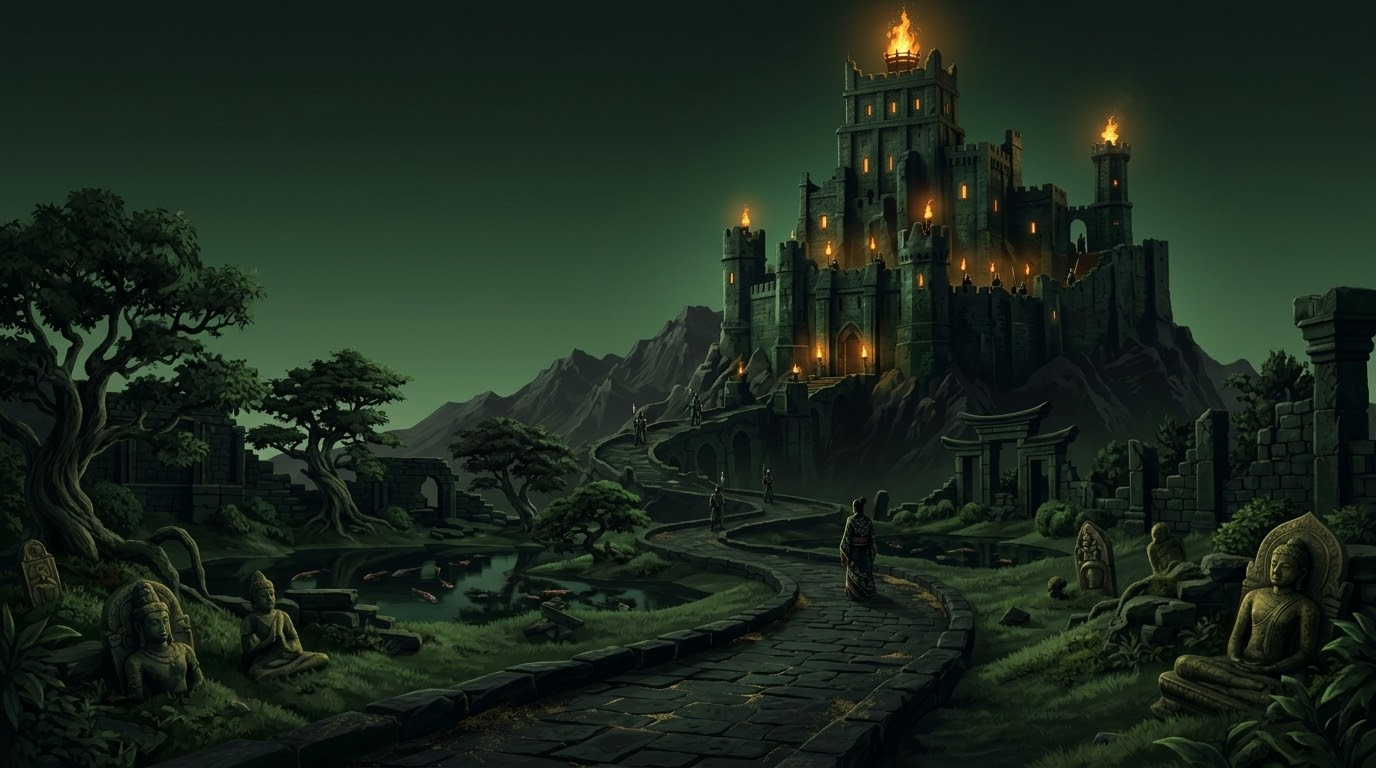
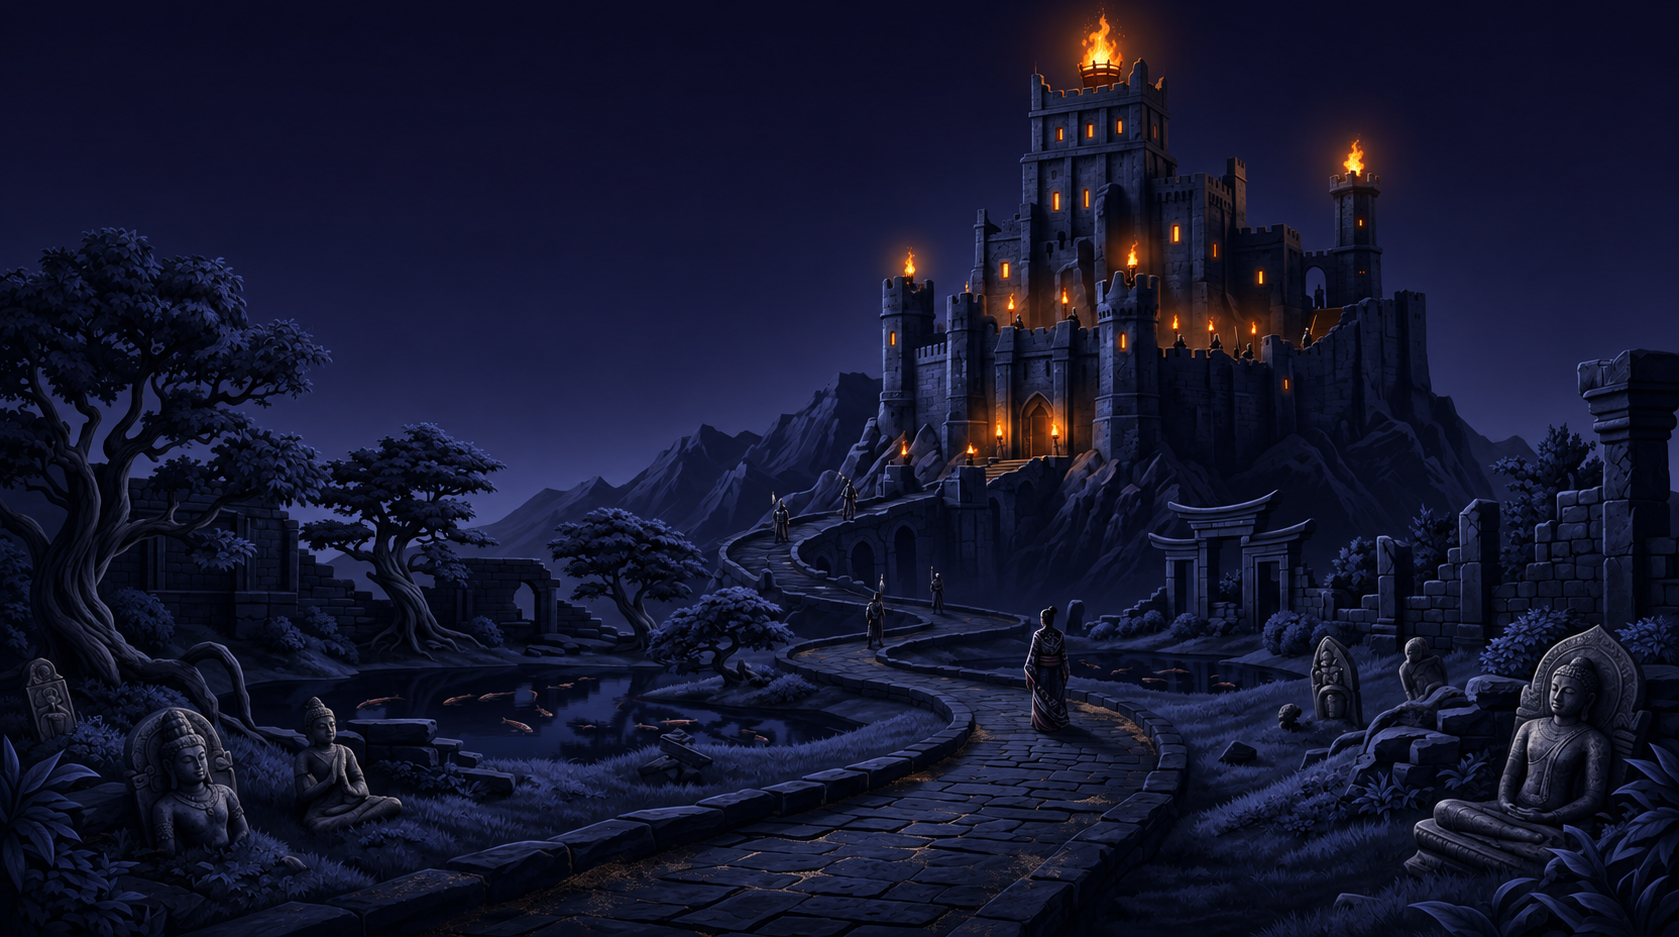
updated theme and adjust screenshot size, and adjusted mobile menu.

diff --git a/css/style.css b/css/style.css
@@ -1,12 +1,12 @@
 @import url('https://fonts.googleapis.com/css2?family=Libre+Caslon+Display&display=swap');
 
 :root {
-    --background: #101813;
-    --surface: #19251D;
+    --background: #101020;
+    --surface: #1A1A3A;
     --text: #F5EEDD;
-    --muted: #BBC1BE;
+    --muted: #C4C3D3;
     --gold: #E3C888;
-    --border: #515957;
+    --border: #484860;
     --heading-font: 'Libre Caslon Display', Georgia, serif;
 }
 
@@ -92,7 +92,7 @@ a:focus-visible, button:focus-visible {
     position: sticky;
     top: 0;
     z-index: 100;
-    background-color: rgba(16, 24, 19, 0.96);
+    background-color: rgba(16, 16, 32, 0.96);
     border-bottom: 1px solid rgba(227, 200, 136, 0.18);
     transition:
         background-color 0.3s ease,
@@ -109,13 +109,13 @@ a:focus-visible, button:focus-visible {
 
 @supports ((backdrop-filter: blur(20px)) or (-webkit-backdrop-filter: blur(20px))) {
     .site-header {
-        background-color: rgba(16, 24, 19, 0.55);
+        background-color: rgba(16, 16, 32, 0.55);
         -webkit-backdrop-filter: blur(20px) saturate(150%);
         backdrop-filter: blur(20px) saturate(150%);
     }
 
     .site-header.is-scrolled {
-        background-color: rgba(16, 24, 19, 0.68);
+        background-color: rgba(16, 16, 32, 0.68);
     }
 }
 
@@ -200,8 +200,8 @@ a:focus-visible, button:focus-visible {
     background-image:
         linear-gradient(
             to right,
-            rgba(10, 18, 14, 0.85),
-            rgba(10, 18, 14, 0.45)
+            rgba(10, 10, 26, 0.85),
+            rgba(10, 10, 26, 0.45)
         ),
         url("../images/home-background.jpg");
     background-size: cover;
@@ -284,7 +284,7 @@ a:focus-visible, button:focus-visible {
 }
 
 .button-secondary {
-    background-color: rgba(16, 24, 19, 0.35);
+    background-color: rgba(16, 16, 32, 0.35);
     border-color: rgba(227, 200, 136, 0.5);
     color: var(--text);
     -webkit-backdrop-filter: blur(8px);
@@ -347,6 +347,7 @@ a:focus-visible, button:focus-visible {
     text-decoration: underline;
     text-underline-offset: 5px;
     font-size: 14px;
+    transition: color 0.2s ease;
 }
 
 .text-link:hover {
@@ -375,7 +376,7 @@ a:focus-visible, button:focus-visible {
     padding: 28px;
     border: 1px solid var(--border);
     border-radius: 14px;
-    background-color: rgba(16, 24, 19, 0.35);
+    background-color: rgba(16, 16, 32, 0.35);
 }
 
 .stat-number {
@@ -459,8 +460,8 @@ a:focus-visible, button:focus-visible {
 .grades-section {
     background-image:
         linear-gradient(
-            rgba(16, 24, 19, 0.88),
-            rgba(16, 24, 19, 0.92)
+            rgba(16, 16, 32, 0.88),
+            rgba(16, 16, 32, 0.92)
         ),
         url("../images/home-background.jpg");
     background-size: cover;
@@ -693,7 +694,7 @@ a:focus-visible, button:focus-visible {
     text-decoration: none;
     display: flex;
     flex-direction: column;
-    background-color: rgba(16, 24, 19, 0.25);
+    background-color: rgba(16, 16, 32, 0.25);
     transition:
         transform 0.25s ease,
         border-color 0.25s ease,
@@ -986,8 +987,8 @@ a:focus-visible, button:focus-visible {
         background-position: 65% center;
         background-image:
             linear-gradient(
-                rgba(10, 18, 14, 0.65),
-                rgba(10, 18, 14, 0.85)
+                rgba(10, 10, 26, 0.65),
+                rgba(10, 10, 26, 0.85)
             ),
             url("../images/home-background.jpg");
     }
@@ -1138,9 +1139,14 @@ a:focus-visible, button:focus-visible {
     }
 }
 
+body {
+    background-image: linear-gradient(135deg, #101020, #1A1A3A);
+}
+
 .feature-languages {
-    background-color: var(--surface);
+    background: linear-gradient(135deg, #19192F, #222247);
     border-top: 1px solid var(--border);
+    border-bottom: 1px solid var(--border);
 }
 
 .feature-language-grid {
@@ -1156,7 +1162,7 @@ a:focus-visible, button:focus-visible {
     text-align: center;
     border: 1px solid rgba(227, 200, 136, 0.35);
     border-radius: 14px;
-    background-color: rgba(16, 24, 19, 0.35);
+    background-color: rgba(16, 16, 32, 0.45);
 }
 
 .feature-language-letter {
@@ -1166,19 +1172,24 @@ a:focus-visible, button:focus-visible {
     width: 76px;
     height: 76px;
     margin: 0 auto 24px;
-    border: 1px solid rgba(227, 200, 136, 0.45);
+    border: 1px solid rgba(227, 200, 136, 0.5);
     border-radius: 50%;
     background-color: rgba(227, 200, 136, 0.08);
     color: var(--gold);
     font-family: var(--heading-font);
-    font-size: 36px;
+    font-size: 38px;
     line-height: 1;
+    transition: box-shadow 0.25s ease;
+}
+
+.feature-language-card:hover .feature-language-letter {
+    box-shadow: 0 0 18px rgba(227, 200, 136, 0.25);
 }
 
 .feature-language-card h3 {
-    font-size: 28px;
+    font-size: 32px;
     line-height: 1.5;
-    margin-bottom: 8px;
+    margin-bottom: 10px;
 }
 
 .feature-language-card p {
@@ -1188,13 +1199,92 @@ a:focus-visible, button:focus-visible {
 
 .feature-language-note {
     margin-top: 28px;
-    text-align: center;
     color: var(--muted);
     font-size: 14px;
+    text-align: center;
+}
+
+.features-page .features-preview {
+    background: linear-gradient(135deg, #17172D, #1A1A3A);
+}
+
+.features-page .features-grid .explore-card {
+    background-color: rgba(26, 26, 58, 0.6);
+}
+
+.features-page .features-grid h3 {
+    font-size: 30px;
+    line-height: 1.2;
+}
+
+.features-page .feature-img {
+    aspect-ratio: auto;
+}
+
+.features-page .feature-img img {
+    height: auto;
+    object-fit: contain;
+}
+
+.features-page .feature:hover .feature-img img {
+    transform: none;
+}
+
+.features-page .step-number {
+    background-color: #17172E;
+}
+
+.features-page .waitlist-section {
+    background:
+        radial-gradient(
+            circle at center,
+            rgba(112, 99, 185, 0.2),
+            transparent 70%
+        ),
+        #101020;
+}
+
+@media (hover: hover) {
+    .features-page .features-grid .explore-card:hover {
+        background-color: #222244;
+    }
+
+    .features-page .features-grid .reveal.is-visible:hover {
+        transform: translateY(-6px);
+    }
 }
 
 @media (max-width: 700px) {
     .feature-language-grid {
         grid-template-columns: 1fr;
+    }
+
+    .feature-language-card {
+        padding: 28px 24px;
+    }
+
+    .features-page .steps-list::before {
+        display: none;
+    }
+
+    .features-page .step-item:not(:last-child)::after {
+        content: "";
+        position: absolute;
+        top: 52px;
+        bottom: -36px;
+        left: 26px;
+        width: 1px;
+        background-color: rgba(227, 200, 136, 0.45);
+    }
+}
+
+@media (prefers-reduced-motion: reduce) {
+    .can-reveal .reveal {
+        opacity: 1;
+        transform: none;
+    }
+
+    .features-page .features-grid .reveal.is-visible:hover {
+        transform: none;
     }
 }

diff --git a/features.html b/features.html
@@ -6,11 +6,11 @@
     <meta name="description" content="See what you can do in Dust &amp; Dynasties, a Sri Lankan history game for Grade 7 to 9 students.">
     <title>Features | Dust &amp; Dynasties</title>
     <link rel="icon" type="image/png" href="images/logo.png">
-    <meta name="theme-color" content="#101813">
-    <link rel="stylesheet" href="css/style.css?v=18">
+    <meta name="theme-color" content="#101020">
+    <link rel="stylesheet" href="css/style.css?v=19">
     <script src="js/script.js?v=17" defer></script>
 </head>
-<body>
+<body class="features-page">
     <a class="skip-link" href="#main-content">Skip to content</a>
 
     <header class="site-header">
@@ -37,7 +37,6 @@
             <div class="container">
                 <div class="intro-copy">
                     <p class="eyebrow">Inside the game</p>
-
                     <h1>Features</h1>
 
                     <p class="intro-text">Quizzes, puzzles, badges and more. Here is what you can do in the game.</p>
@@ -77,7 +76,7 @@
                     </div>
 
                     <div class="explore-card reveal">
-                        <span class="feature-icon" aria-hidden="true">&#3461;</span>
+                        <span class="feature-icon" aria-hidden="true" lang="si">&#3461;</span>
                         <h3>Three languages</h3>
                         <p>Play the whole game in Sinhala, Tamil or English, and switch at any time from the menu.</p>
                     </div>
@@ -108,7 +107,7 @@
                 <div class="feature-list">
                     <article class="feature reveal">
                         <div class="feature-img">
-                            <img src="images/screen-signup.png" alt="Sign up screen where new players choose a dynast name and password">
+                            <img src="images/screen-signup.png" alt="Sign up screen where new players choose a dynast name and password" loading="lazy">
                         </div>
 
                         <div class="feature-copy">
@@ -120,7 +119,7 @@
 
                     <article class="feature reveal">
                         <div class="feature-img">
-                            <img src="images/screen-login.png" alt="Log in screen for returning players">
+                            <img src="images/screen-login.png" alt="Log in screen for returning players" loading="lazy">
                         </div>
 
                         <div class="feature-copy">
@@ -143,25 +142,25 @@
 
                 <div class="feature-language-grid">
                     <article class="feature-language-card reveal">
-                        <span class="feature-language-letter" aria-hidden="true" lang="si">අ</span>
+                        <span class="feature-language-letter" lang="si" aria-hidden="true">අ</span>
                         <h3 lang="si">සිංහල</h3>
                         <p>Play in Sinhala.</p>
                     </article>
 
                     <article class="feature-language-card reveal">
-                        <span class="feature-language-letter" aria-hidden="true" lang="ta">அ</span>
+                        <span class="feature-language-letter" lang="ta" aria-hidden="true">அ</span>
                         <h3 lang="ta">தமிழ்</h3>
                         <p>Play in Tamil.</p>
                     </article>
 
                     <article class="feature-language-card reveal">
-                        <span class="feature-language-letter" aria-hidden="true" lang="en">A</span>
+                        <span class="feature-language-letter" lang="en" aria-hidden="true">A</span>
                         <h3 lang="en">English</h3>
                         <p>Play in English.</p>
                     </article>
                 </div>
 
-                <p class="feature-language-note reveal">All three languages are available in the game.</p>
+                <p class="feature-language-note">All three languages are available in the game.</p>
             </div>
         </section>
 
@@ -207,7 +206,6 @@
                     <p class="eyebrow">Currently in development</p>
                     <h2>Want to try <span>the game?</span></h2>
                     <p class="waitlist-text">We are still building the first chapter. Join the waitlist and we will email you when it is ready to play.</p>
-
                     <a class="button button-primary button-glow" href="index.html#waitlist">Join the waitlist</a>
                 </div>
             </div>
